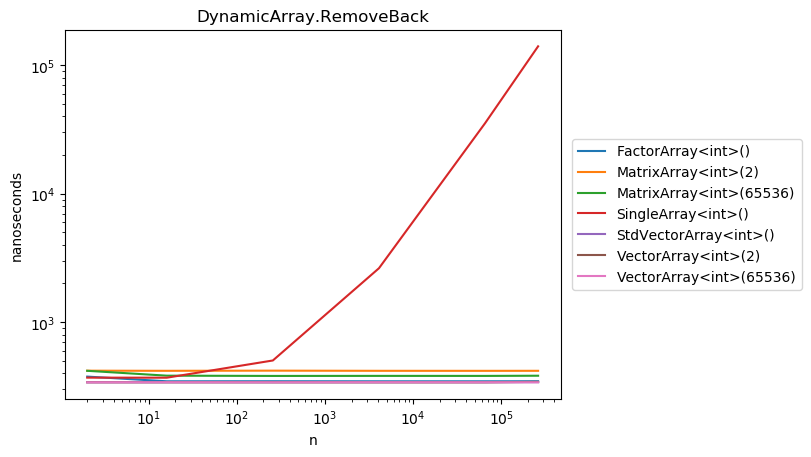
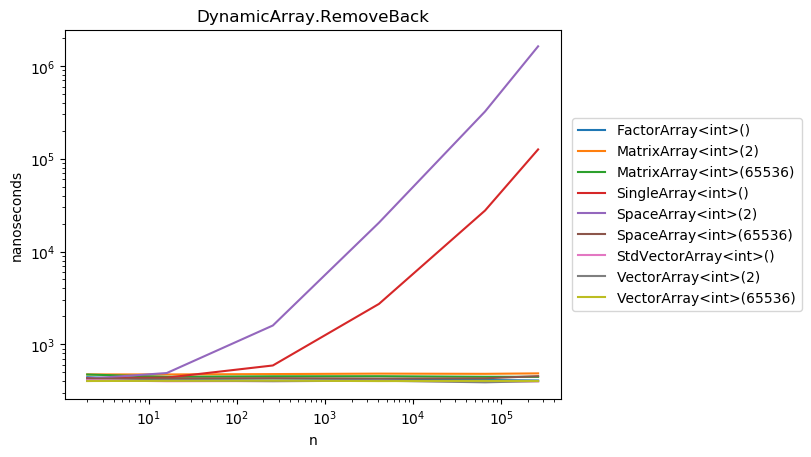
BO1 | feat: update pics

diff --git a/02_data_structures/report/transform_benchmark_results.py b/02_data_structures/report/transform_benchmark_results.py
@@ -4,6 +4,9 @@ import matplotlib.pyplot as plt
 
 fname = "/tmp/result"
 
+pandas.set_option('display.max_rows', 500)
+pandas.set_option('display.max_columns', 500)
+pandas.set_option('display.width', 1000)
 
 def extractMethodName(name):
     return name.split("_")[2]

diff --git a/02_data_structures/report/README.md b/02_data_structures/report/README.md
@@ -22,80 +22,91 @@
 
 #### `AddBack`
 Операция добавления элемента в конец массива у оптимизированных имплементаций `DynamicArray` имеет порядок роста O(1). 
-Лучшую производительность демонстрируют `StdVectorArray` и `FactorArray`, а также `MatrixArray` с большой длиной ряда. В свободное место в хвосте массива данные добавляются за O(1), реаллокации случаются редко и не играют значительной роли. В имплементации `SingleArray`, где реаллокации и копирование случаются значительно чаще, наблюдается асимптотика O(N<sup>2</sup>).
+Лучшую производительность демонстрируют `StdVectorArray` и `FactorArray`, а также `MatrixArray` и `SpaceArray` с большой длиной ряда. В свободное место в хвосте массива данные добавляются за O(1), реаллокации случаются редко и не играют значительной роли. В имплементации `SingleArray`, где реаллокации и копирование случаются значительно чаще, наблюдается асимптотика O(N<sup>2</sup>).
 ![AddBack](https://github.com/vitalyisaev2/algo-2019-04/blob/master/02_data_structures/report/AddBack.png)
 
 #### `AddFront`
-Операция добавления в начало массив дорогая, поскольку требует смещения всего массива вправо. У всех имплементаций наблюдается асимптотика O(N<sup>2</sup>), но быстерее всего работает `StdVectorArray`. 
+Операция добавления в начало массив дорогая, поскольку требует смещения (копирования) всего массива вправо. Почти у всех имплементаций наблюдается асимптотика O(N<sup>2</sup>). Исключение составляет `SpaceArray`, который демонстрирует асимптотику O(1) в случае, если количество добавляемых данных не превышает ёмкости одного "ряда" SpaceArray.
 ![AddFront](https://github.com/vitalyisaev2/algo-2019-04/blob/master/02_data_structures/report/AddFront.png)
 
 #### `RemoveBack`
-Операция удаления из хвоста массива почти у всех имплементаций выполняется за O(1). Лишь у `SingleArray`, в связи с необходимостью реаллокации при каждом шаге, она достигает O(N<sup>2</sup>).
+Операция удаления из хвоста массива почти у всех имплементаций выполняется за O(1). Лишь у `SingleArray` и `SpaceArray` с малой длиной ряда, в связи с необходимостью реаллокации почти при каждом шаге, вычислительная сложность достигает O(N<sup>2</sup>).
 ![RemoveBack](https://github.com/vitalyisaev2/algo-2019-04/blob/master/02_data_structures/report/RemoveBack.png)
 
 #### `RemoveFront`
-Удаление из начала массива примерно так же дорого, как и запись в начало массива. Здесь победителем также является причём он работает примерно на порядок быстрее `FactorArray`, что говорит о наличии определённых оптимизаций в `std::vector`. Возможно,
-при удалении из начала массива какое-то время продолжает переиспользоваться старый участок памяти.
+Удаление из начала массива примерно так же дорого, как и запись в начало массива. Для различных вариантов нагрузки победители разные. Для небольших массивов (< 10000 элементов) лучшие результаты демонстрирует `StdVectorArray`, причём работает он примерно на порядок быстрее `FactorArray`, что говорит о наличии определённых оптимизаций в `std::vector`. Возможно,
+при удалении из начала массива какое-то время продолжает переиспользоваться старый участок памяти, реаллокации не происходит. Для более крупных массивов лучшую асимптотику демонстрирует `SpaceArray` с большой длиной внутренних массивов.
 ![RemoveFront](https://github.com/vitalyisaev2/algo-2019-04/blob/master/02_data_structures/report/RemoveFront.png)
 
 #### `Get`
-Извлечение элемента массива по индексу - операция, выполняющаяся за константное время. У `MatrixArray` она 
-выполняется несколько медленнее, чем у других имплементаций, за счёт большего количества арифметических операций для вычисления адреса ячейки.
+Извлечение элемента массива по индексу - операция, выполняющаяся у большинства имплементаций за константное время. У `MatrixArray` она 
+выполняется несколько медленнее, чем у других, за счёт большего количества арифметических операций для вычисления адреса ячейки. 
+В `SpaceArray` асимптотика явно нелинейная, из-за того, что при вычислении ячейки памяти, в которой хранится нужный элемент,
+требуется проитерироваться по некоторому количеству внутренних рядов, так как какждый из них может иметь разную степень заполнения.
 ![Get](https://github.com/vitalyisaev2/algo-2019-04/blob/master/02_data_structures/report/Get.png)
 
 ### Выводы
 Самая быстрая из собственных имплементаций `DynamicArray` - `FactorArray` не слишком сильно отстаёт от `StdVectorArray`, базирующейся на `std::vector` и везде демонстрирует нужную асимптотику. Тем не менее, это отставание есть почти всегда, что косвенно указывает на оптимизации внутри стандартной библиотеки С++ (либо какие-то эвристики, либо ассемблерные вставки, либо что-то ещё).
+Весьма интересны варианты `MatrixArray` и `SpaceArray`, которые могут найти применение в специфичных областях.
 
 
 Таблица математических ожиданий времени выполнения операций различных имплементаций `DynamicArray`.
 ```
 AddFront
-type    FactorArray<int>()  MatrixArray<int>(2)  MatrixArray<int>(65536)  SingleArray<int>()  StdVectorArray<int>()  VectorArray<int>(2)  VectorArray<int>(65536)
-n                                                                                                                                                                
-2             26471.420060         1.405941e+05             26520.633440        44285.892420            6368.462470         39750.257070             26484.570250
-16            26478.239240         1.411168e+05             26515.278180        30576.527160            6328.720730         39737.307310             26466.292440
-256           26588.341650         1.477862e+05             26636.643140        31055.687010            6379.239040         39982.529350             26586.126300
-4096          28622.698480         1.909736e+05             28661.894910        34598.138970            6929.005340         41164.088125             28630.446960
-65536         39626.247307         1.846358e+06             39640.521177        40133.225299           15373.827654         57367.183954             39579.439058
-262144       139979.368453         7.561139e+06            140574.215144       257976.519941           43866.613077        286757.540563            140289.176037
+type    FactorArray<int>()  MatrixArray<int>(2)  MatrixArray<int>(65536)  SingleArray<int>()  SpaceArray<int>(2)  SpaceArray<int>(65536)  StdVectorArray<int>()  VectorArray<int>(2)  VectorArray<int>(65536)
+n                                                                                                                                                                                                            
+2             18445.018270         1.519646e+05             19361.190870        39892.134670         5121.937000              9561.11089            7554.319281         28338.221470             17883.020390
+16            18235.693680         1.490056e+05             18621.726710        24945.640460         5103.097110              9722.54855            7571.738044         28649.083520             18092.046200
+256           18331.355870         1.541881e+05             19498.284090        25651.875770         5142.387190              9523.62567            5093.424690         28643.146930             18696.150590
+4096          20371.430850         1.957079e+05             20618.494490        28568.260610         5507.391520              9995.56226            5282.685700         44060.903034             19867.531740
+65536         30581.225307         1.897197e+06             30029.733838        32230.469738        12668.083198              9660.13701           13311.927846         51734.277238             32528.651450
+262144       113480.120605         7.940217e+06            101018.513526       239967.989502        30278.936518              9900.66132           32583.179265        248565.193730            101440.386377
+
+
 
 AddBack
-type    FactorArray<int>()  MatrixArray<int>(2)  MatrixArray<int>(65536)  SingleArray<int>()  StdVectorArray<int>()  VectorArray<int>(2)  VectorArray<int>(65536)
-n                                                                                                                                                                
-2                 7.347140          7159.775590                14.847779        26555.750270               4.831274         13316.862350               135.285176
-16                7.150823          7148.304880                14.749322        26557.549710               4.804941         13289.267310                97.122663
-256               7.147580          7273.738140                14.711076        26675.408030               4.814488         13345.841910                97.068533
-4096              7.170031          7740.047760                14.703894        28709.363020               4.804797         14364.098450                97.048936
-65536             7.151516         14364.563932                14.755182        39777.547884               4.864238         22302.796656                98.822771
-262144            7.138907         39758.522155                14.738153       140337.732207               4.810058         70800.045994               104.054538
+type    FactorArray<int>()  MatrixArray<int>(2)  MatrixArray<int>(65536)  SingleArray<int>()  SpaceArray<int>(2)  SpaceArray<int>(65536)  StdVectorArray<int>()  VectorArray<int>(2)  VectorArray<int>(65536)
+n                                                                                                                                                                                                            
+2                 6.974975          5868.382780                16.166318        21459.119500           52.058876               15.583585               4.912286         10697.479830               133.992384
+16                6.769728          5991.517920                16.181083        21749.050780           52.224922               15.157531               6.554512         10589.620880                78.755776
+256               6.647822          5977.675130                16.210684        21538.013420           53.458115               16.268462               5.418184         10603.827170                78.517361
+4096              6.737011          6382.530090                16.414726        23023.557410           53.239010               15.301719               6.515928         11163.989150                80.115885
+65536             7.301285         13204.386479                16.641224        33919.215773           51.694406               15.193255               6.590422         19115.478546                96.106077
+262144            7.499814         31981.199741                16.635377       131788.550258           51.935049               15.471905               6.627113         55843.514800                84.430551
+
+
 
 RemoveFront
-type    FactorArray<int>()  MatrixArray<int>(2)  MatrixArray<int>(65536)  SingleArray<int>()  StdVectorArray<int>()  VectorArray<int>(2)  VectorArray<int>(65536)
-n                                                                                                                                                                
-2               377.705874         5.098770e+02               412.725969          361.463594             341.917870           364.754417               341.471256
-16              396.118178         9.289093e+02               427.956992          369.215927             343.303294           382.233361               351.421837
-256             674.128273         7.674532e+03               708.633086          503.095442             368.549858           652.072396               487.499601
-4096           4813.473224         1.168701e+05              4868.220862         2626.233248             698.927629          4799.711337              2523.769940
-65536         70030.979483         1.853572e+06             35296.528131        35269.215258            8347.077027         70017.354387             70014.159093
-262144       278411.180263         7.603480e+06            139821.607753       141235.520218           41224.377114        278783.814843            278559.151213
+type    FactorArray<int>()  MatrixArray<int>(2)  MatrixArray<int>(65536)  SingleArray<int>()  SpaceArray<int>(2)  SpaceArray<int>(65536)  StdVectorArray<int>()  VectorArray<int>(2)  VectorArray<int>(65536)
+n                                                                                                                                                                                                            
+2               439.487978         5.946217e+02               472.126109          427.138288          492.423908              422.429943             404.161112           427.580455               404.501153
+16              457.898606         1.019868e+03               495.410556          431.954416          500.100456              421.770043             402.670231           447.771562               410.549536
+256             678.623000         8.321974e+03               716.699842          534.647473          645.959051              530.931846             423.557670           635.914263               517.702907
+4096           3920.109843         1.180537e+05              3977.080202         2096.535833         2914.139316             2132.518395             588.140133          3899.717109              2095.717266
+65536         57583.907354         1.864134e+06             27401.470842        28776.053794        65729.048400              498.355658            6473.037478         56264.346190             56472.900718
+262144       232188.129665         7.589570e+06            111882.844715       108977.082514       156537.231606              516.656464           29894.966564        214181.857274            236027.092904
+
+
 
 RemoveBack
-type    FactorArray<int>()  MatrixArray<int>(2)  MatrixArray<int>(65536)  SingleArray<int>()  StdVectorArray<int>()  VectorArray<int>(2)  VectorArray<int>(65536)
-n                                                                                                                                                                
-2               377.197363           419.362418               418.457617          370.267459             340.574834           340.784564               340.564031
-16              346.731083           418.401914               383.540790          369.811570             340.590962           340.853292               341.078234
-256             347.069668           419.555883               381.689515          503.476032             340.762944           340.695416               340.640376
-4096            346.735533           418.385965               382.062957         2628.171156             340.816259           340.424695               341.145211
-65536           346.743305           418.168368               381.874251        35304.138220             340.866783           340.521588               340.888721
-262144          346.930982           418.427864               383.128810       140007.804717             341.412497           343.404304               340.645581
+type    FactorArray<int>()  MatrixArray<int>(2)  MatrixArray<int>(65536)  SingleArray<int>()  SpaceArray<int>(2)  SpaceArray<int>(65536)  StdVectorArray<int>()  VectorArray<int>(2)  VectorArray<int>(65536)
+n                                                                                                                                                                                                            
+2               442.546885           474.465948               473.400146          432.711988        4.268938e+02              426.914100             411.278641           403.079259               402.748843
+16              413.985027           474.210018               447.010845          437.816507        4.910065e+02              429.449688             400.630563           408.126598               404.674131
+256             407.919606           478.393606               452.836487          592.328178        1.597308e+03              432.346678             402.234888           400.917869               406.440516
+4096            413.745688           483.802815               453.768945         2728.662408        2.047389e+04              427.815446             405.002973           406.175459               402.137716
+65536           413.138469           481.396214               447.716333        27681.634339        3.230688e+05              430.895843             399.116708           389.931719               403.542223
+262144          408.145884           486.854384               446.661588       126041.182726        1.627066e+06              454.524875             399.237926           402.040524               402.698337
+
+
 
 Get
-type    FactorArray<int>()  MatrixArray<int>(2)  MatrixArray<int>(65536)  SingleArray<int>()  StdVectorArray<int>()  VectorArray<int>(2)  VectorArray<int>(65536)
-n                                                                                                                                                                
-2                 2.114632            18.481802                18.531669            2.114990               1.850383             2.116942                 2.117276
-16                2.113992            18.527047                17.705823            2.116765               1.849346             2.114426                 2.114152
-256               2.118763            18.247181                17.706182            2.115365               1.851155             2.115029                 2.114277
-4096              2.162890            18.451479                17.708588            2.115524               1.852534             2.113279                 2.115104
-65536             2.116722            18.444158                17.707030            2.115255               1.850796             2.114076                 2.115255
-262144            2.113695            18.496193                18.243901            2.122755               1.852851             2.117001                 2.114818
+type    FactorArray<int>()  MatrixArray<int>(2)  MatrixArray<int>(65536)  SingleArray<int>()  SpaceArray<int>(2)  SpaceArray<int>(65536)  StdVectorArray<int>()  VectorArray<int>(2)  VectorArray<int>(65536)
+n                                                                                                                                                                                                            
+2                 1.631304            17.695781                17.530876            1.602037            9.063890                9.001525               1.937643             1.492974                 1.442995
+16                1.624107            17.653130                17.973007            1.603263           26.183653                8.987399               1.945988             1.505609                 1.549550
+256               1.628773            17.826216                17.750939            1.616068          288.843147                9.056345               1.932189             1.616532                 1.594152
+4096              1.616769            17.972844                17.811378            1.608608         4911.597019                8.945369               1.938135             1.609551                 1.593787
+65536             1.629633            17.991448                17.899311            1.661465        81383.537344                8.992288               1.934943             1.611995                 1.598223
+262144            1.641791            17.740686                17.762466            1.452038       342831.114243               18.169414               1.928568             1.602122                 1.612716
 ```
